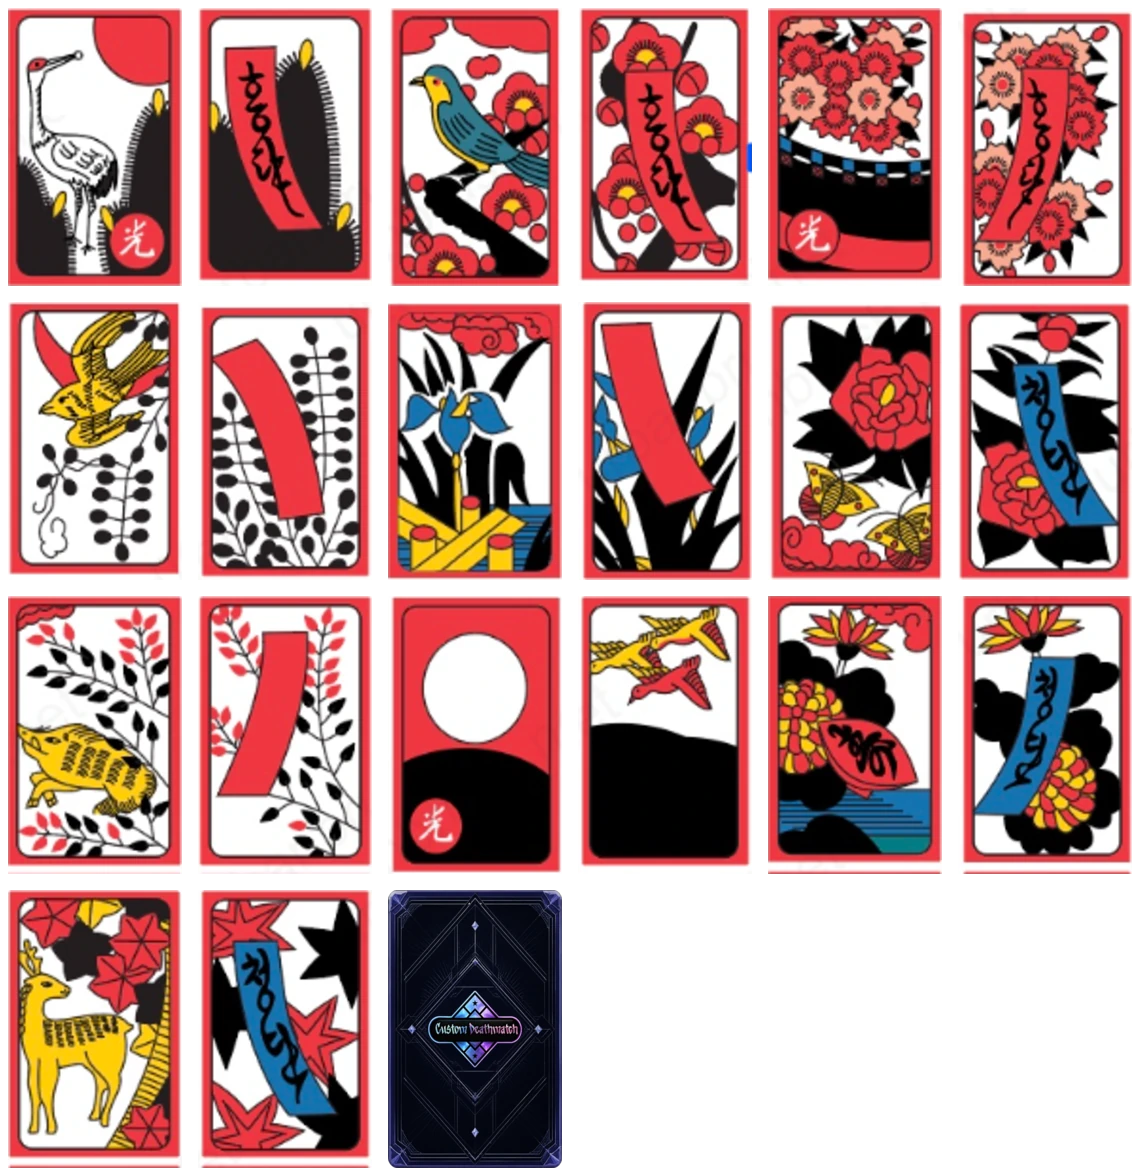
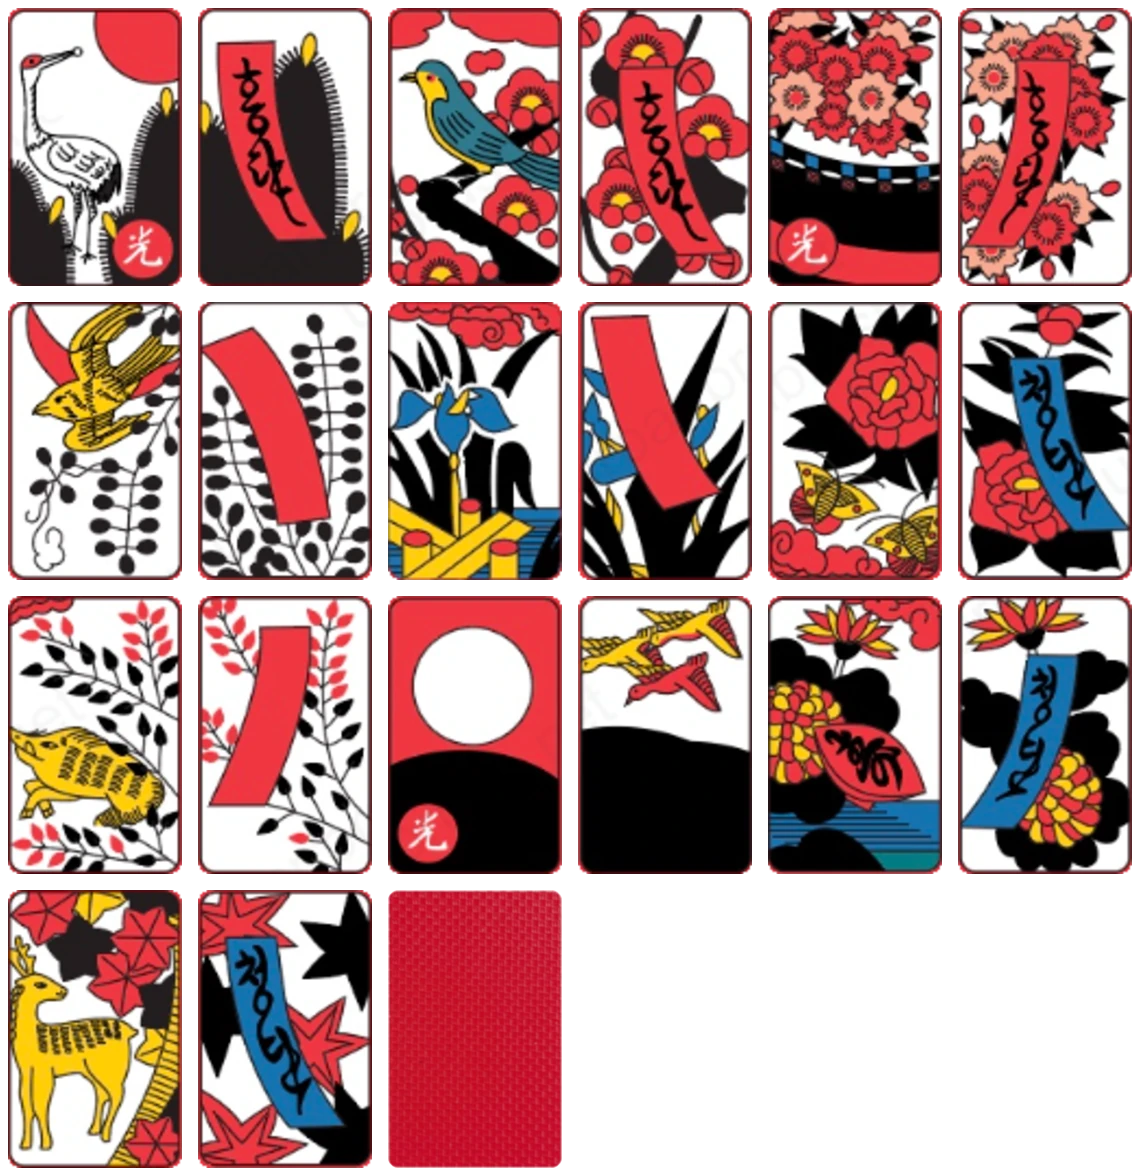
fix(seed-seotda): polish cards and show hand rank

diff --git a/server/src/socket/games/seed-seotda/state.ts b/server/src/socket/games/seed-seotda/state.ts
@@ -12,6 +12,7 @@ import { isTokenAnonymized } from '../../../shop/roomShopState.js';
 import { getActiveSkin } from '../../skins.js';
 import type { IO, TypedSocket } from '../../types.js';
 import { socketRoom } from '../../utils.js';
+import { evaluateSeedSeotdaHand } from './judge.js';
 import type { SeedSeotdaState } from './types.js';
 
 export const seedSeotdaStates = new Map<string, SeedSeotdaState>();
@@ -118,6 +119,11 @@ export function toSeedSeotdaGameData(
         const internal = state.playerStates[player.id];
         const ownCards = viewerId === player.id;
         const publicHand = revealResult?.hands[player.id] ?? null;
+        const publicEvaluation = revealResult?.evaluations[player.id] ?? null;
+        const privateEvaluation =
+          ownCards && internal.finalHand.length === 2
+            ? evaluateSeedSeotdaHand(internal.finalHand)
+            : null;
         return [
           player.id,
           {
@@ -133,6 +139,11 @@ export function toSeedSeotdaGameData(
                   ? internal.finalHand.map(cloneCard)
                   : internal.finalHand.map(() => null),
             seedChoice: internal.seedChoice,
+            evaluation: publicEvaluation
+              ? cloneEvaluation(publicEvaluation)
+              : privateEvaluation
+                ? cloneEvaluation(privateEvaluation)
+                : null,
           },
         ];
       }),

diff --git a/components/game/modules/seed-seotda/index.tsx b/components/game/modules/seed-seotda/index.tsx
@@ -8,10 +8,7 @@ import { useTurnTimer } from '@/hooks/useTurnTimer';
 import { getSocket } from '@/lib/socket';
 import { cn } from '@/lib/utils';
 import { useRoomStore } from '@/stores/room';
-import type {
-  SeedSeotdaGameData,
-  SeedSeotdaPlayerView,
-} from '@/shared/types/seed-seotda';
+import type { SeedSeotdaGameData, SeedSeotdaPlayerView } from '@/shared/types/seed-seotda';
 
 const PHASE_LABEL: Record<SeedSeotdaGameData['phase'], string> = {
   'seed-choice': '시드 선택',
@@ -44,7 +41,7 @@ function PlayerPanel({
   myId: string;
 }) {
   const current = gameData.currentTurnId === playerId;
-  const evaluation = gameData.lastRoundResult?.evaluations[playerId];
+  const evaluation = player.evaluation;
   const choiceLabel =
     player.seedChoice === 'used'
       ? '시드 사용'
@@ -79,7 +76,10 @@ function PlayerPanel({
       </div>
       <HandCards player={player} />
       {evaluation && (
-        <p className="text-cdm-fg mt-1 text-xs font-black sm:text-sm">{evaluation.name}</p>
+        <p className="text-cdm-fg mt-1 text-xs font-black sm:text-sm">
+          {playerId === myId && gameData.phase !== 'round-result' ? '내 족보 · ' : ''}
+          {evaluation.name}
+        </p>
       )}
     </section>
   );

diff --git a/server/src/__tests__/game.seed-seotda.test.ts b/server/src/__tests__/game.seed-seotda.test.ts
@@ -119,8 +119,14 @@ describe('시드섯다 경기 진행', () => {
     expect(secondView.players[first.id].seedChoice).toBe('used');
     expect(secondView.players[first.id].cards).toEqual([null, null]);
     expect(secondView.players[first.id].finalHand).toEqual([null, null]);
+    expect(secondView.players[first.id].evaluation).toBeNull();
     expect(secondView.players[first.id]).not.toHaveProperty('discardIndex');
     expect(state.playerStates[first.id].finalHand[1]?.id).toBe(firstCards[1]?.id);
+
+    const firstView = toSeedSeotdaGameData(state, first.id);
+    expect(firstView.players[first.id].evaluation?.name).toBe(
+      evaluateSeedSeotdaHand(state.playerStates[first.id].finalHand).name,
+    );
   });
 
   it('양쪽 시드 선택 뒤 선 플레이어가 베팅하고 상대가 콜하면 승부한다', () => {

diff --git a/shared/types/seed-seotda.ts b/shared/types/seed-seotda.ts
@@ -66,6 +66,7 @@ export interface SeedSeotdaPlayerView {
   cards: Array<SeedSeotdaCard | null>;
   finalHand: Array<SeedSeotdaCard | null>;
   seedChoice: SeedSeotdaSeedChoice;
+  evaluation: SeedSeotdaEvaluation | null;
 }
 
 export type SeedSeotdaRoundReason =
